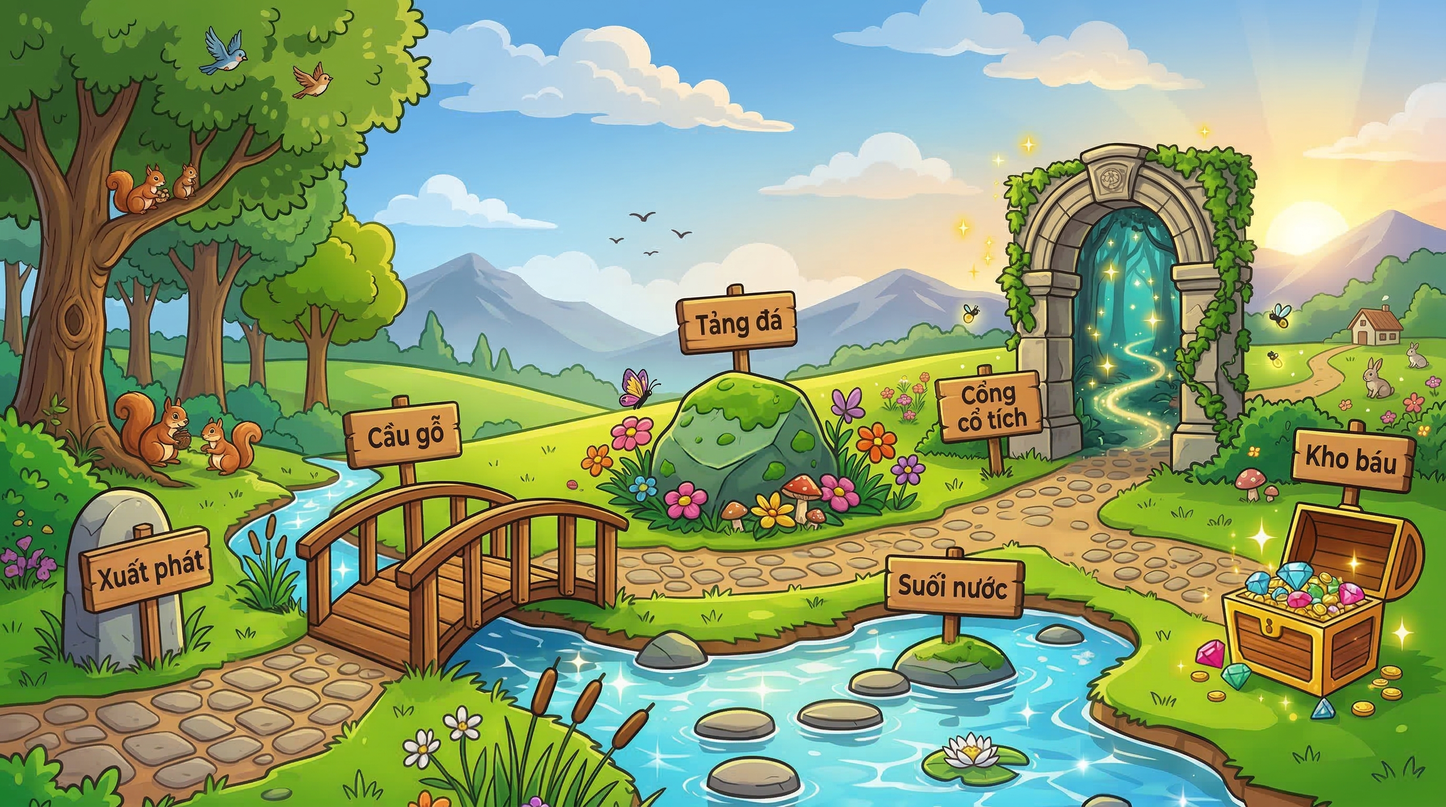
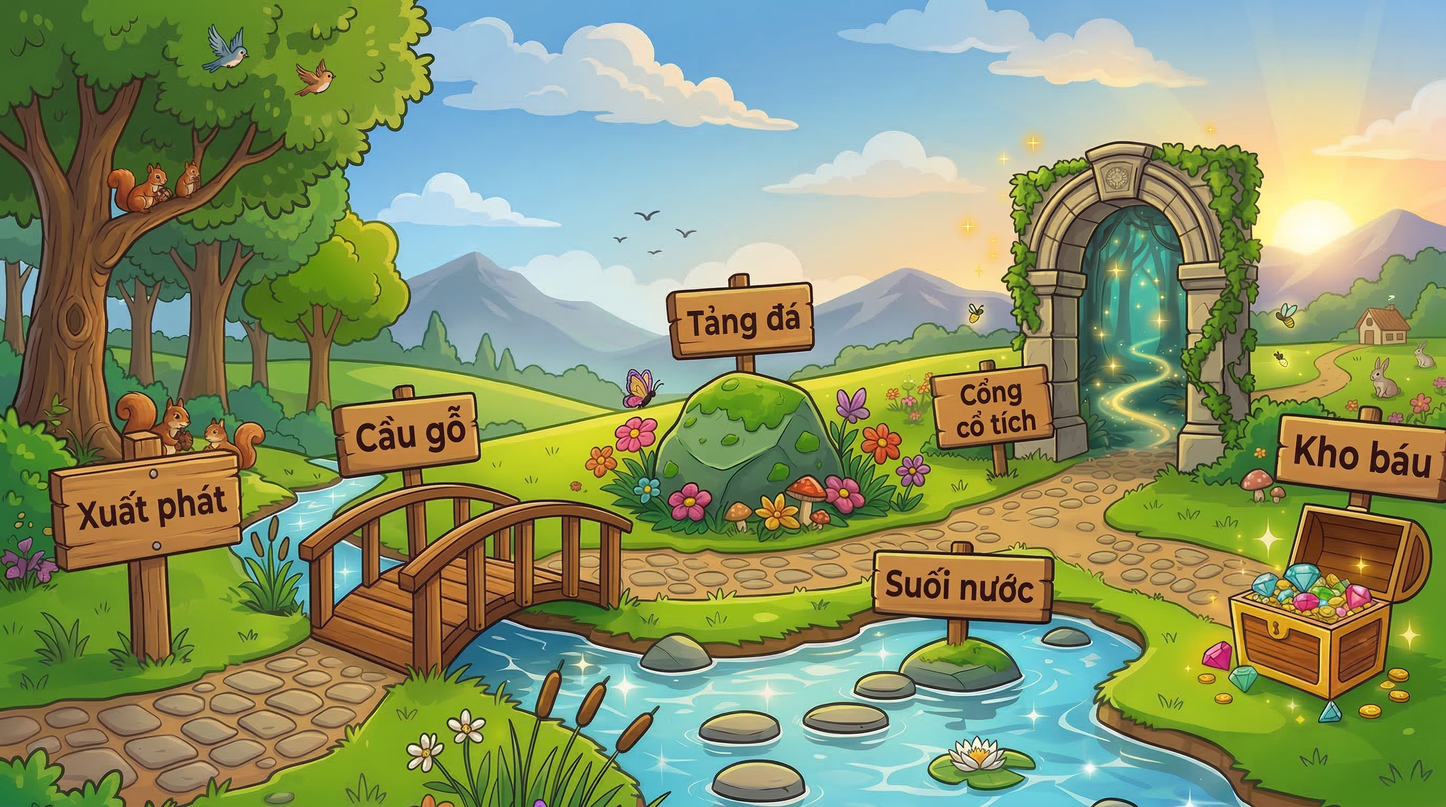
🗺 Cập nhật map mới chữ to hơn + điều chỉnh waypoints

diff --git a/index.html b/index.html
@@ -633,7 +633,8 @@
         </div>
     </div>
 
-    <p style="position:fixed;top:12px;right:16px;font-size:.85em;color:rgba(0,0,0,.4);font-weight:600;z-index:9999">Tác giả: Nguyễn Thị Khánh Bình</p>
+    <p style="position:fixed;top:12px;right:16px;font-size:.85em;color:rgba(0,0,0,.4);font-weight:600;z-index:9999">Tác
+        giả: Nguyễn Thị Khánh Bình</p>
 
     <script>
         /* ===== DATA ===== */
@@ -648,11 +649,11 @@
         /* Waypoint positions as % of the map image
            Matched to Gemini-generated map landmarks (2752x1536) */
         const WP = [
-            { l: 18, t: 92 },   // Xuất phát (on brown path, bottom-left)
-            { l: 35, t: 74 },  // Cầu Gỗ (on the bridge)
-            { l: 48, t: 75 },  // Tảng đá (on brown path near rock)
-            { l: 62, t: 70 },  // Suối nước (on stepping stones)
-            { l: 77, t: 60 },  // Cổng cổ tích (on path near archway)
+            { l: 21, t: 90 },   // Xuất phát (on brown path, bottom-left)
+            { l: 37, t: 70 },  // Cầu Gỗ (on the bridge)
+            { l: 50, t: 75 },  // Tảng đá (on brown path near rock)
+            { l: 62, t: 65 },  // Suối nước (on stepping stones)
+            { l: 78, t: 58 },  // Cổng cổ tích (on path near archway)
             { l: 84, t: 75 },  // Qua cổng cổ tích (after passing the gate)
             { l: 80, t: 87 }   // Kho báu (near treasure chest)
         ];
